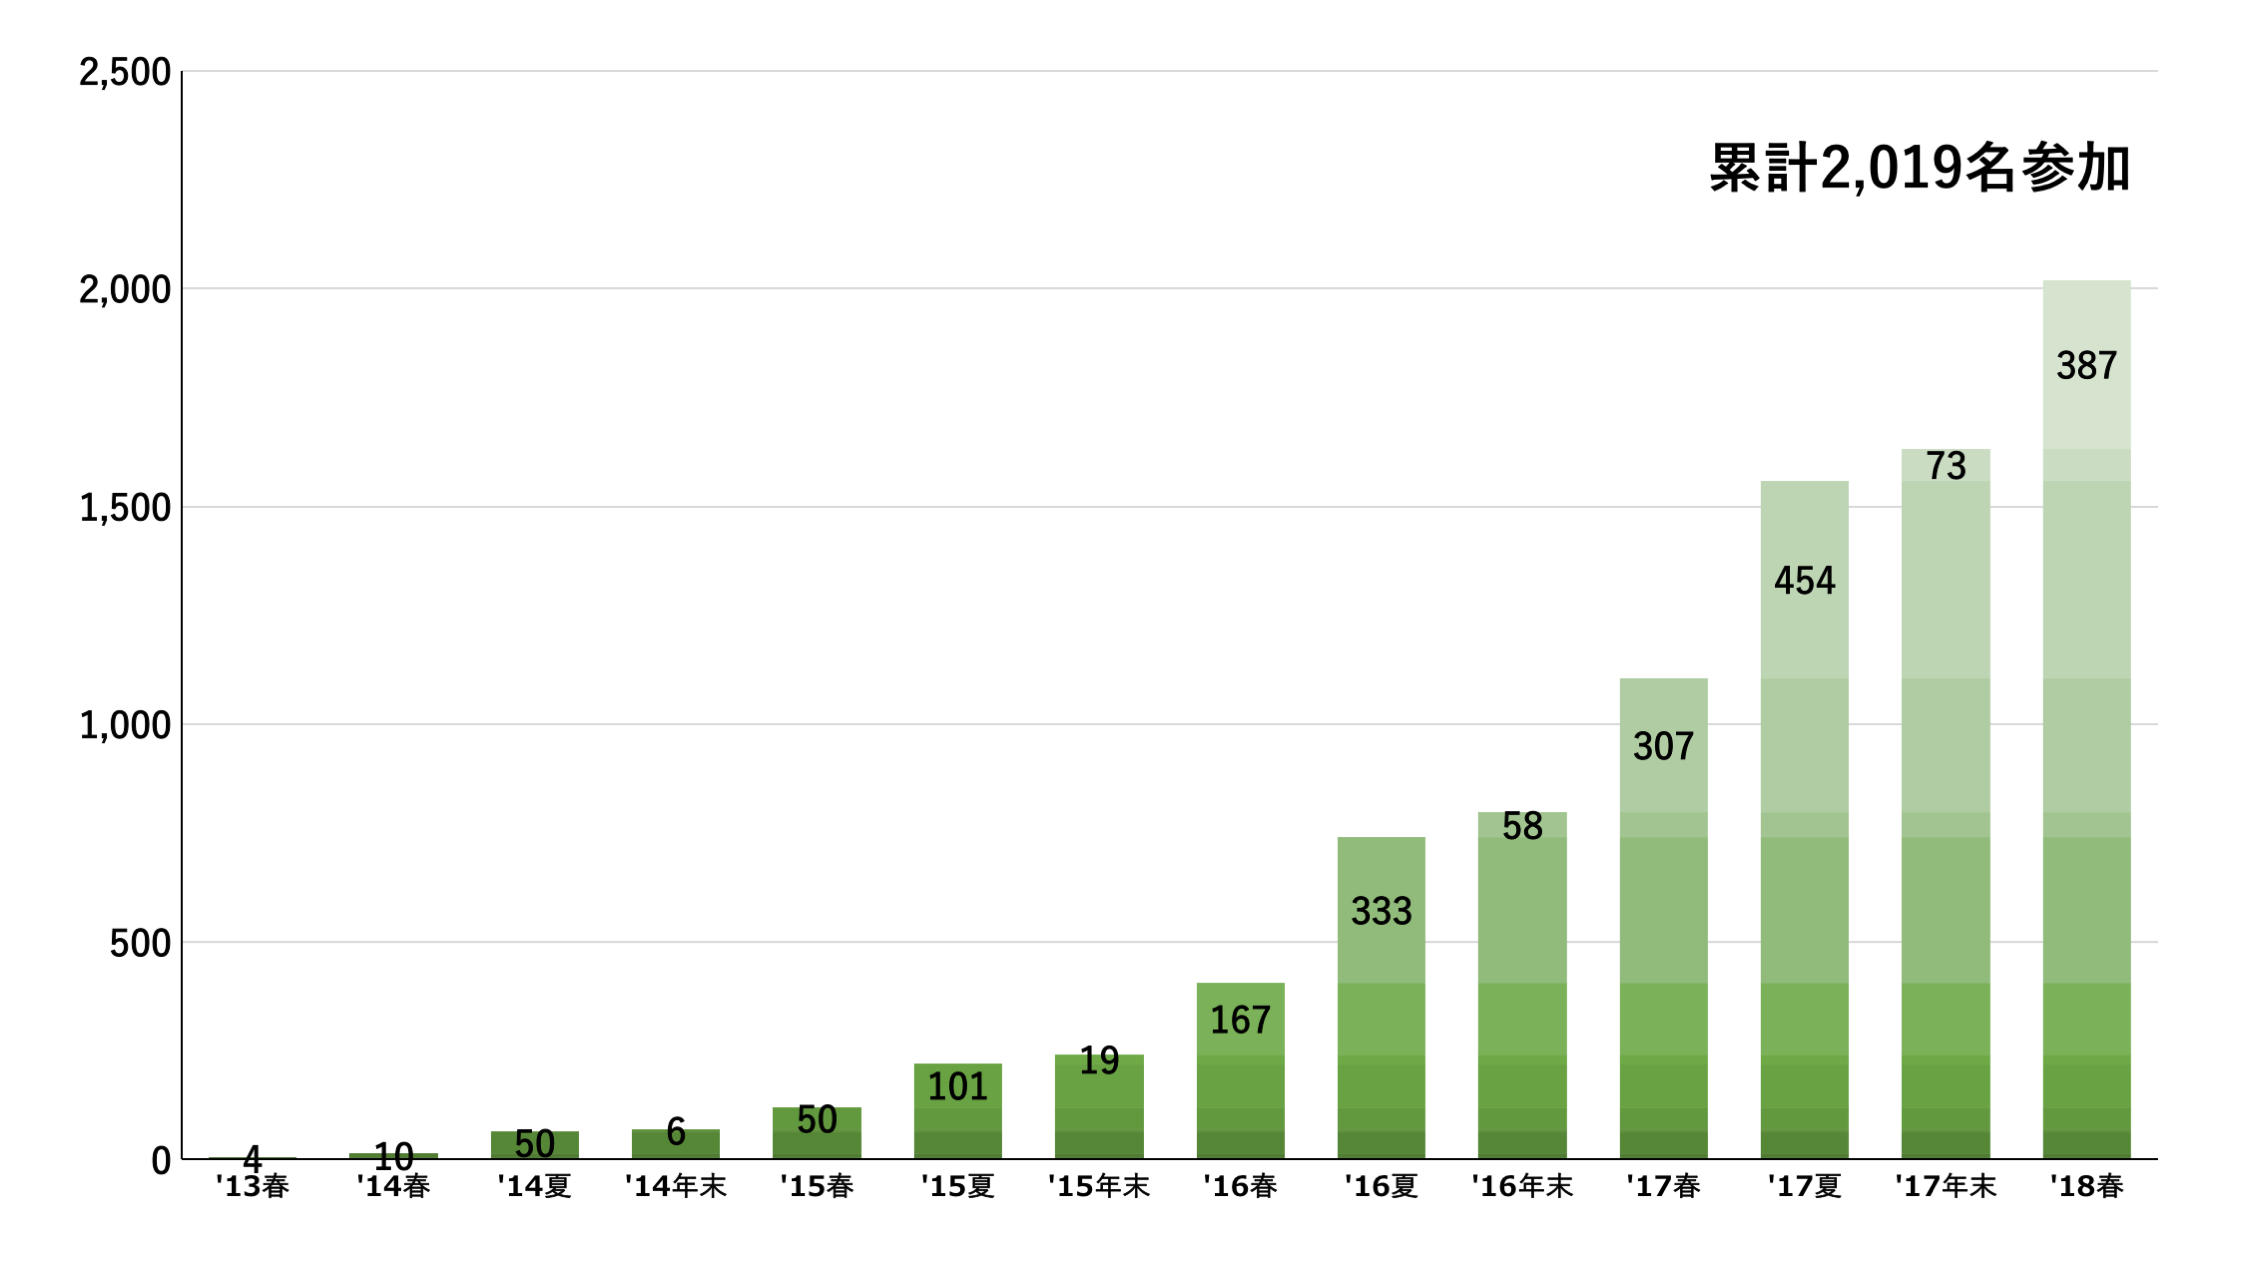
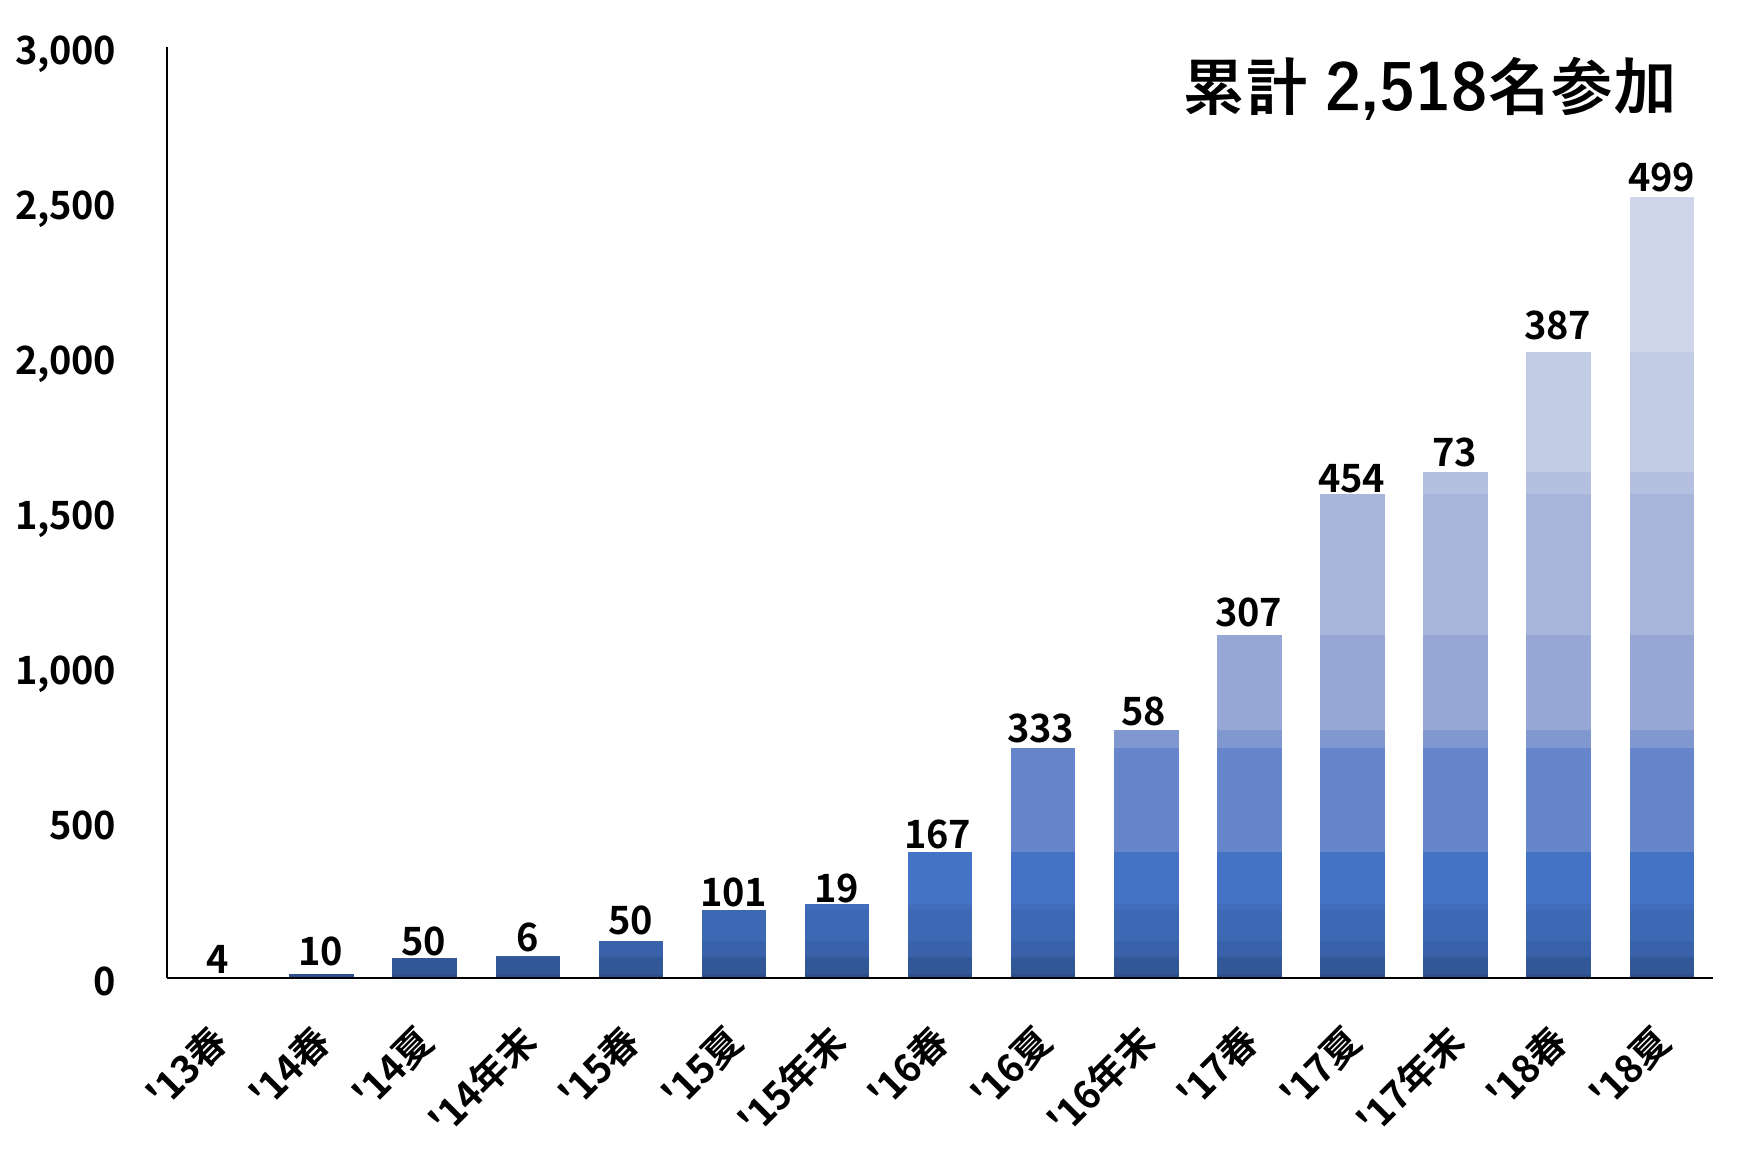
upadate

diff --git a/css/feature.css b/css/feature.css
@@ -27,7 +27,12 @@ Version: 1.0
 	#about ul li, #ex ul li, #privacy ul li, #news ul li{ list-style-type: disc!important; margin-left: 15px; }
 	#single-news ul li, #news ul li{ list-style-type: disc!important; margin-left: 15px; }
 	#archive-column h5{ font-size: 1.6rem!important; padding: 12px 0px!important; margin: 0px;}
+#single-column h1{}
+#single-column h2{}
+#single-column h3{}
+#single-column h4{}
 	#single-column h5{ padding: 0px!important; margin: 0px;}
+	#single-column h6{}
 	#about table td{ padding: 20px 20px!important; }
 	#company table td{ padding: 20px 10px!important; }
 	#index-schedule table td{ padding: 10px 0px!important; font-weight:bold; letter-spacing: 0.2rem;}
@@ -58,7 +63,12 @@ Version: 1.0
 	#single-news ul li, #news ul li{ list-style-type: disc!important; margin-left: 15px; }
 	#archive-column h5 .card-title{  }
 	#archive-column h5{ font-size: 1.6rem!important; padding: 12px 0px!important; margin: 0px;}
+	#single-column h1{}
+	#single-column h2{}
+	#single-column h3{}
+	#single-column h4{}
 	#single-column h5{ padding: 0px!important; margin: 0px;}
+	#single-column h6{}
 	#about table td{ padding: 20px 20px!important; }
 	#company table td{ padding: 20px 10px!important; }
 	#index-schedule table td{ padding: 10px 0px!important; font-weight:bold; letter-spacing: 0.2rem;}
@@ -89,7 +99,12 @@ Version: 1.0
 	#about ul li, #ex ul li, #privacy ul li, #news ul li{ list-style-type: disc!important; margin-top: 0px; margin-left: 15px;}
 	#single-news ul li, #news ul li{ list-style-type: disc!important; margin-left: 15px; }
 	#archive-column h5{ font-size: 1.6rem!important; padding: 12px 0px!important; margin: 0px;}
+	#single-column h1{}
+	#single-column h2{}
+	#single-column h3{}
+	#single-column h4{}
 	#single-column h5{ padding: 0px!important; margin: 0px;}
+	#single-column h6{}
 	#about table td{ padding: 20px 20px!important; }
 	#company table td{ padding: 20px 30px!important; }
 	#index-schedule table td{ padding: 15px 30px!important; font-weight:bold; letter-spacing: 0.3rem;}
@@ -120,7 +135,12 @@ Version: 1.0
 	#about ul li, #ex ul li, #privacy ul li, #news ul li{ list-style-type: disc!important; margin-top: 0px; margin-left: 15px;}
 	#single-news ul li, #news ul li{ list-style-type: disc!important; margin-left: 15px; }
 	#archive-column h5{ font-size: 1.6rem!important; padding: 12px 0px!important; margin: 0px;}
+	#single-column h1{}
+	#single-column h2{}
+	#single-column h3{}
+	#single-column h4{}
 	#single-column h5{ padding: 0px!important; margin: 0px;}
+	#single-column h6{}
 	#about table td{ padding: 20px 20px!important; }
 	#company table td{ padding: 20px 30px!important; }
 	#index-schedule table td{ padding: 15px 30px!important; font-weight:bold; letter-spacing: 0.3rem;}
@@ -151,7 +171,12 @@ Version: 1.0
 	#about ul li, #ex ul li, #privacy ul li, #news ul li{ list-style-type: disc!important; margin-top: 0px; margin-left: 15px;}
 	#single-news ul li, #news ul li{ list-style-type: disc!important; margin-left: 15px; }
 	#archive-column h5{ font-size: 1.6rem!important; padding: 12px 0px!important; margin: 0px;}
+	#single-column h1{}
+	#single-column h2{}
+	#single-column h3{}
+	#single-column h4{}
 	#single-column h5{ padding: 0px!important; margin: 0px;}
+	#single-column h6{}
 	#about table td{ padding: 20px 20px!important; }
 	#company table td{ padding: 20px 30px!important; }
 	#index-schedule table td{ padding: 15px 30px!important; font-weight:bold; letter-spacing: 0.3rem;}

diff --git a/archive-news.php b/archive-news.php
@@ -5,7 +5,7 @@ Template Name: archive-news.php
 ?>
 <?php get_header(); ?>
 <div class="jumbotron">
-	<h2 class="text-center font-weight-bold">リリース・メディア情報</h2>
+	<h2 class="text-center font-weight-bold">ニュース・メディア情報</h2>
 	<p class="text-center">武者修行®に関するニュースリリース</p>
 </div>
 <div class="container pt-5 pb-5">
@@ -49,7 +49,7 @@ Template Name: archive-news.php
 			<div class="col-12 col-sm-12 col-md-12 col-lg-12 col-xl-12 mb-5">
 				<h3 class="font-weight-bold">公開情報</h3>
 				<div class="pt-5 pb-5">
-					<h4 class="font-weight-bold">参加学生数の推移　累計参加者数2,019名</h4>
+					<h4 class="font-weight-bold">参加学生数の推移　累計参加者数2,518名</h4>
 					<img class="img-fluid mx-auto d-block" src="<?php bloginfo('template_directory'); ?>/img/sankasha-data.png">
 				</div>
 			</div>
